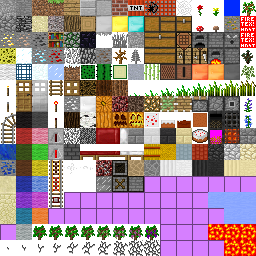
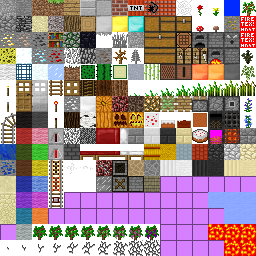
Thatch blocks + Straw

Changed region(s): [[0.5625, 0.6875, 0.625, 0.75], [0.3125, 0.3125, 0.375, 0.375]]

diff --git a/minecraft/net/minecraft/src/BlockStep.java b/minecraft/net/minecraft/src/BlockStep.java
@@ -14,7 +14,7 @@ public class BlockStep extends Block
 
     public BlockStep(int i, boolean flag)
     {
-        super(i, 6, Material.rock);
+        super(i, 6, Material.sticks);
         blockType = flag;
         if(!flag)
         {
@@ -30,6 +30,9 @@ public class BlockStep extends Block
 		}
 		if (this.blockID == Block.slabShinglesSingle.blockID || this.blockID == Block.slabShinglesDouble.blockID) {
 			return Block.flintBricks.blockIndexInTexture;
+		}
+		if (this.blockID == Block.slabThatchSingle.blockID || this.blockID == Block.slabThatchDouble.blockID) {
+			return Block.thatch.blockIndexInTexture;
 		}
         if(j == 0)
         {
@@ -88,6 +91,11 @@ public class BlockStep extends Block
             world.setBlockWithNotify(i, j, k, 0);
             world.setBlockAndMetadataWithNotify(i, j - 1, k, Block.slabShinglesDouble.blockID, i1);
         }
+		if(l == slabThatchSingle.blockID)
+        {
+            world.setBlockWithNotify(i, j, k, 0);
+            world.setBlockAndMetadataWithNotify(i, j - 1, k, Block.slabThatchDouble.blockID, i1);
+        }
     }
 
     public int idDropped(int i, Random random)
@@ -97,6 +105,9 @@ public class BlockStep extends Block
 			
 		} else if (this.blockID == Block.slabShinglesSingle.blockID || this.blockID == Block.slabShinglesDouble.blockID) {
 			return Block.slabShinglesSingle.blockID;
+			
+		} else if (this.blockID == Block.slabThatchSingle.blockID || this.blockID == Block.slabThatchDouble.blockID) {
+			return Block.slabThatchSingle.blockID;
 			
 		} else {
 			return Block.stairSingle.blockID;

diff --git a/minecraft_server/net/minecraft/src/BlockStep.java b/minecraft_server/net/minecraft/src/BlockStep.java
@@ -14,7 +14,7 @@ public class BlockStep extends Block
 
     public BlockStep(int i, boolean flag)
     {
-        super(i, 6, Material.rock);
+        super(i, 6, Material.sticks);
         blockType = flag;
         if(!flag)
         {
@@ -30,6 +30,9 @@ public class BlockStep extends Block
 		}
 		if (this.blockID == Block.slabShinglesSingle.blockID || this.blockID == Block.slabShinglesDouble.blockID) {
 			return Block.flintBricks.blockIndexInTexture;
+		}
+		if (this.blockID == Block.slabThatchSingle.blockID || this.blockID == Block.slabThatchDouble.blockID) {
+			return Block.thatch.blockIndexInTexture;
 		}
         if(j == 0)
         {
@@ -88,6 +91,11 @@ public class BlockStep extends Block
             world.setBlockWithNotify(i, j, k, 0);
             world.setBlockAndMetadataWithNotify(i, j - 1, k, Block.slabShinglesDouble.blockID, i1);
         }
+		if(l == slabThatchSingle.blockID)
+        {
+            world.setBlockWithNotify(i, j, k, 0);
+            world.setBlockAndMetadataWithNotify(i, j - 1, k, Block.slabThatchDouble.blockID, i1);
+        }
     }
 
     public int idDropped(int i, Random random)
@@ -97,6 +105,9 @@ public class BlockStep extends Block
 			
 		} else if (this.blockID == Block.slabShinglesSingle.blockID || this.blockID == Block.slabShinglesDouble.blockID) {
 			return Block.slabShinglesSingle.blockID;
+			
+		} else if (this.blockID == Block.slabThatchSingle.blockID || this.blockID == Block.slabThatchDouble.blockID) {
+			return Block.slabThatchSingle.blockID;
 			
 		} else {
 			return Block.stairSingle.blockID;

diff --git a/minecraft_server/net/minecraft/src/Block.java b/minecraft_server/net/minecraft/src/Block.java
@@ -690,6 +690,10 @@ public class Block
 	public static final Block mill;
 	public static final Block oreLead;
 	public static final Block blockLead;
+	public static final Block thatch;
+	public static final Block stairThatch;
+	public static final Block slabThatchSingle;
+	public static final Block slabThatchDouble;
 	
     public int blockIndexInTexture;
     public final int blockID; 
@@ -857,6 +861,10 @@ public class Block
 		mill = (new BlockMill(133)).setHardness(2.5F).setStepSound(soundStoneFootstep).setBlockName("mill");
 		oreLead = (new BlockOre(134, 166)).setHardness(3.0F).setResistance(5.0F).setStepSound(soundStoneFootstep).setBlockName("oreLead");
 		blockLead = (new BlockOreStorage(135, 182)).setHardness(5.0F).setResistance(20.0F).setStepSound(soundStoneFootstep).setBlockName("blockLead");
+		thatch = (new Block(136, 185, Material.sticks)).setHardness(0.5F).setResistance(3.0F).setStepSound(soundWoodFootstep).setBlockName("thatch");
+		stairThatch = (new BlockStairs(137, thatch)).setBlockName("stairThatch");
+		slabThatchSingle = (new BlockStep(138, false)).setHardness(0.5F).setResistance(3.0F).setStepSound(soundStoneFootstep).setBlockName("slabThatch");
+		slabThatchDouble = (new BlockStep(139, true)).setHardness(0.5F).setResistance(3.0F).setStepSound(soundStoneFootstep).setBlockName("slabThatch");
 		
 		Item.itemsList[cloth.blockID] = (new ItemCloth(cloth.blockID - 256)).setItemName("cloth");
         Item.itemsList[wood.blockID] = (new ItemLog(wood.blockID - 256)).setItemName("log");

diff --git a/minecraft/net/minecraft/src/Block.java b/minecraft/net/minecraft/src/Block.java
@@ -156,6 +156,10 @@ public class Block {
 	public static final Block mill = (new BlockMill(133)).setHardness(2.5F).setStepSound(soundStoneFootstep).setBlockName("mill");
 	public static final Block oreLead = (new BlockOre(134, 166)).setHardness(3.0F).setResistance(5.0F).setStepSound(soundStoneFootstep).setBlockName("oreLead");
 	public static final Block blockLead = (new BlockOreStorage(135, 182)).setHardness(5.0F).setResistance(20.0F).setStepSound(soundStoneFootstep).setBlockName("blockLead");
+	public static final Block thatch = (new Block(136, 185, Material.sticks)).setHardness(0.5F).setResistance(3.0F).setStepSound(soundWoodFootstep).setBlockName("thatch");
+	public static final Block stairThatch = (new BlockStairs(137, thatch)).setBlockName("stairThatch").disableNeighborNotifyOnMetadataChange();
+	public static final Block slabThatchSingle = (new BlockStep(138, false)).setHardness(0.5F).setResistance(3.0F).setStepSound(soundStoneFootstep).setBlockName("slabThatch");
+	public static final Block slabThatchDouble = (new BlockStep(139, true)).setHardness(0.5F).setResistance(3.0F).setStepSound(soundStoneFootstep).setBlockName("slabThatch");
 	public int blockIndexInTexture;
 	public final int blockID;
 	protected float blockHardness;

diff --git a/minecraft_server/net/minecraft/src/CraftingManager.java b/minecraft_server/net/minecraft/src/CraftingManager.java
@@ -220,6 +220,9 @@ public class CraftingManager
 		addRecipe(new ItemStack(Block.whiteConcrete, 8), new Object[]{"X#X", "#Y#", "X#X", Character.valueOf('X'), Item.gunpowder, Character.valueOf('Y'), Item.bucketWater, Character.valueOf('#'), Block.sandStone});
 		addRecipe(new ItemStack(Block.blackConcrete, 8), new Object[]{"X#X", "#Y#", "X#X", Character.valueOf('X'), Item.gunpowder, Character.valueOf('Y'), Item.bucketWater, Character.valueOf('#'), Block.stone});
 		addRecipe(new ItemStack(Item.dough, 1), new Object[]{"X", "#", Character.valueOf('#'), Item.bucketWater, Character.valueOf('X'), Item.flour});
+		addRecipe(new ItemStack(Block.stairThatch, 3), new Object[]{"#  ", "## ", Character.valueOf('#'), Item.straw});
+		addRecipe(new ItemStack(Block.thatch, 4), new Object[]{"##", "##", Character.valueOf('#'), Item.straw});
+		addRecipe(new ItemStack(Block.slabThatchSingle, 2), new Object[]{"##", Character.valueOf('#'), Item.straw});
 		
         Collections.sort(recipes, new RecipeSorter(this));
         System.out.println((new StringBuilder()).append(recipes.size()).append(" recipes").toString());

diff --git a/minecraft/net/minecraft/src/CraftingManager.java b/minecraft/net/minecraft/src/CraftingManager.java
@@ -102,6 +102,9 @@ public class CraftingManager {
 		this.addRecipe(new ItemStack(Block.whiteConcrete, 8), new Object[]{"X#X", "#Y#", "X#X", Character.valueOf('X'), Item.gunpowder, Character.valueOf('Y'), Item.bucketWater, Character.valueOf('#'), Block.sandStone});
 		this.addRecipe(new ItemStack(Block.blackConcrete, 8), new Object[]{"X#X", "#Y#", "X#X", Character.valueOf('X'), Item.gunpowder, Character.valueOf('Y'), Item.bucketWater, Character.valueOf('#'), Block.stone});
 		this.addRecipe(new ItemStack(Item.dough, 1), new Object[]{"X", "#", Character.valueOf('#'), Item.bucketWater, Character.valueOf('X'), Item.flour});
+		this.addRecipe(new ItemStack(Block.stairThatch, 3), new Object[]{"#  ", "## ", Character.valueOf('#'), Item.straw});
+		this.addRecipe(new ItemStack(Block.thatch, 4), new Object[]{"##", "##", Character.valueOf('#'), Item.straw});
+		this.addRecipe(new ItemStack(Block.slabThatchSingle, 2), new Object[]{"##", Character.valueOf('#'), Item.straw});
 		
 		Collections.sort(this.recipes, new RecipeSorter(this));
 		System.out.println(this.recipes.size() + " recipes");

diff --git a/minecraft_server/net/minecraft/src/World.java b/minecraft_server/net/minecraft/src/World.java
@@ -462,7 +462,7 @@ public class World
         if(flag)
         {
             int l = getBlockId(i, j, k);
-            if(l == Block.stairSingle.blockID || l == Block.tilledField.blockID || l == Block.stairCompactCobblestone.blockID || l == Block.stairCompactPlanks.blockID || l == Block.stairTiles.blockID || l == Block.stairShingles.blockID || l == Block.slabShinglesSingle.blockID || l == Block.slabTileSingle.blockID)
+            if(l == Block.stairSingle.blockID || l == Block.tilledField.blockID || l == Block.stairCompactCobblestone.blockID || l == Block.stairCompactPlanks.blockID || l == Block.stairTiles.blockID || l == Block.stairShingles.blockID || l == Block.slabThatchSingle.blockID || l == Block.stairThatch.blockID ||  l == Block.slabShinglesSingle.blockID || l == Block.slabTileSingle.blockID)
             {
                 int i1 = getBlockLightValue_do(i, j + 1, k, false);
                 int j1 = getBlockLightValue_do(i + 1, j, k, false);

diff --git a/minecraft/net/minecraft/src/World.java b/minecraft/net/minecraft/src/World.java
@@ -609,7 +609,7 @@ public class World
         if(flag)
         {
             int l = getBlockId(i, j, k);
-            if(l == Block.stairSingle.blockID || l == Block.tilledField.blockID || l == Block.stairCompactCobblestone.blockID || l == Block.stairCompactPlanks.blockID || l == Block.stairTiles.blockID || l == Block.stairShingles.blockID || l == Block.slabShinglesSingle.blockID || l == Block.slabTileSingle.blockID)
+            if(l == Block.stairSingle.blockID || l == Block.tilledField.blockID || l == Block.stairCompactCobblestone.blockID || l == Block.stairCompactPlanks.blockID || l == Block.stairTiles.blockID || l == Block.stairShingles.blockID || l == Block.stairThatch.blockID || l == Block.slabThatchSingle.blockID || l == Block.slabShinglesSingle.blockID || l == Block.slabTileSingle.blockID)
             {
                 int i1 = getBlockLightValue_do(i, j + 1, k, false);
                 int j1 = getBlockLightValue_do(i + 1, j, k, false);

diff --git a/minecraft/net/minecraft/src/ChunkCache.java b/minecraft/net/minecraft/src/ChunkCache.java
@@ -94,7 +94,7 @@ public class ChunkCache
         if(flag)
         {
             int l = getBlockId(i, j, k);
-            if(l == Block.stairSingle.blockID || l == Block.tilledField.blockID || l == Block.stairCompactCobblestone.blockID || l == Block.stairCompactPlanks.blockID || l == Block.stairTiles.blockID || l == Block.stairShingles.blockID || l == Block.slabShinglesSingle.blockID || l == Block.slabTileSingle.blockID)
+            if(l == Block.stairSingle.blockID || l == Block.tilledField.blockID || l == Block.stairCompactCobblestone.blockID || l == Block.stairCompactPlanks.blockID || l == Block.stairTiles.blockID || l == Block.stairShingles.blockID || l == Block.slabThatchSingle.blockID || l == Block.stairThatch.blockID || l == Block.slabShinglesSingle.blockID || l == Block.slabTileSingle.blockID)
             {
                 int k1 = getLightValueExt(i, j + 1, k, false);
                 int i2 = getLightValueExt(i + 1, j, k, false);

diff --git a/minecraft/net/minecraft/src/BlockLeaves.java b/minecraft/net/minecraft/src/BlockLeaves.java
@@ -30,7 +30,7 @@ public class BlockLeaves extends BlockLeavesBase
         }
         if((i & 2) == 2)
         {
-            return ColorizerFoliage.getFoliageColorBirch();
+            return ColorizerFoliage.func_31073_c();
         } else
         {
             return ColorizerFoliage.func_31073_c();
@@ -44,10 +44,7 @@ public class BlockLeaves extends BlockLeavesBase
         {
             return ColorizerFoliage.getFoliageColorPine();
         }
-        if((l & 2) == 2)
-        {
-            return ColorizerFoliage.getFoliageColorBirch();
-        } else
+        else
         {
             iblockaccess.getWorldChunkManager().func_4069_a(i, k, 1, 1);
             double d = iblockaccess.getWorldChunkManager().temperature[0];

diff --git a/minecraft/net/minecraft/src/Item.java b/minecraft/net/minecraft/src/Item.java
@@ -188,6 +188,7 @@ public class Item {
 	public static Item wine = (new ItemDrink(171, 16, 1, 0)).setIconCoord(10, 12).setItemName("wine").setContainerItem(bucketEmpty);
 	public static Item ingotLead = (new Item(172)).setIconCoord(5, 11).setItemName("ingotLead");
 	public static Item helmetRebreather = (new ItemArmor(173, 1, 8, 0)).setIconCoord(4, 11).setItemName("helmetRebreather");
+	public static Item straw = (new Item(174)).setIconCoord(11, 12).setItemName("straw");
 	
 	public static Item record13 = (new ItemRecord(2000, "13")).setIconCoord(0, 15).setItemName("record");
 	public static Item recordCat = (new ItemRecord(2001, "cat")).setIconCoord(1, 15).setItemName("record");

diff --git a/minecraft_server/net/minecraft/src/Item.java b/minecraft_server/net/minecraft/src/Item.java
@@ -374,6 +374,7 @@ public class Item
 	public static Item wine;
 	public static Item ingotLead = (new Item(172)).setIconCoord(5, 11).setItemName("ingotLead");
 	public static Item helmetRebreather = (new ItemArmor(173, 1, 6, 0)).setIconCoord(4, 11).setItemName("helmetRebreather");
+	public static Item straw = (new Item(174)).setIconCoord(11, 12).setItemName("straw");
 	
 	public static Item record13 = (new ItemRecord(2000, "13")).setIconCoord(0, 15).setItemName("record");
     public static Item recordCat = (new ItemRecord(2001, "cat")).setIconCoord(1, 15).setItemName("record");
